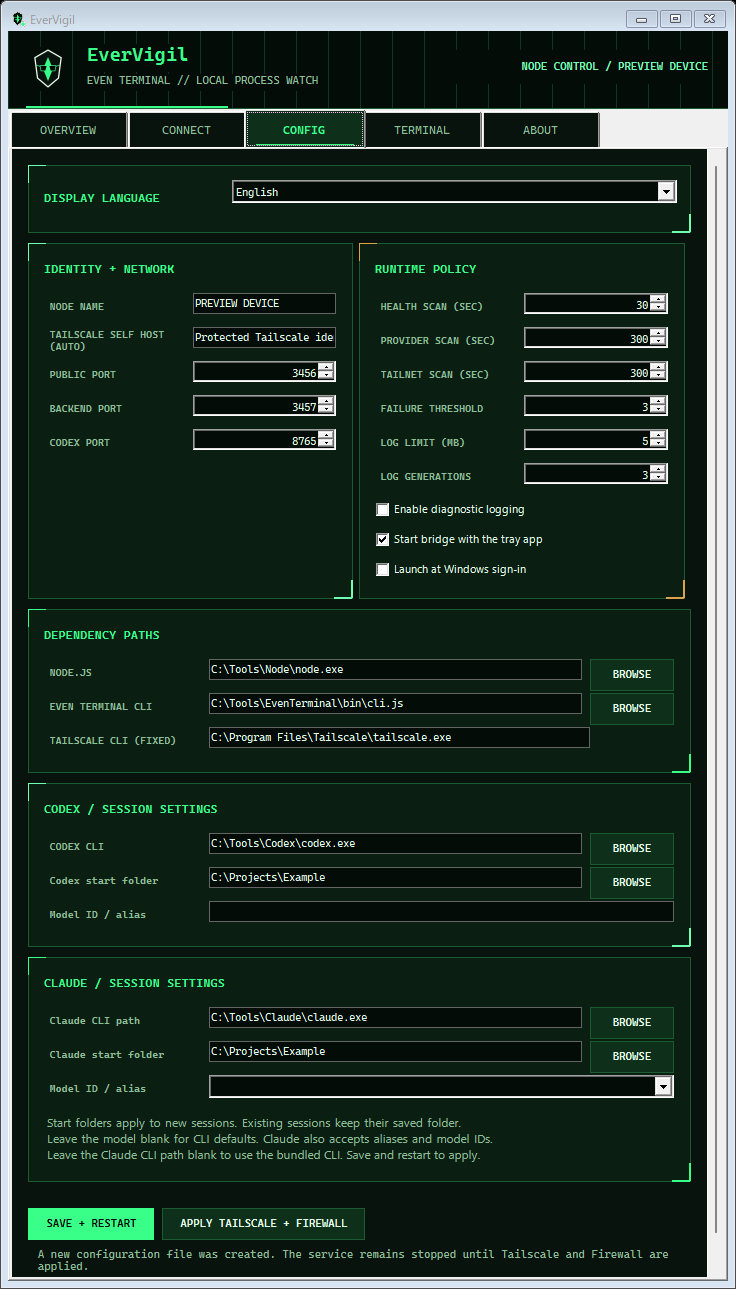
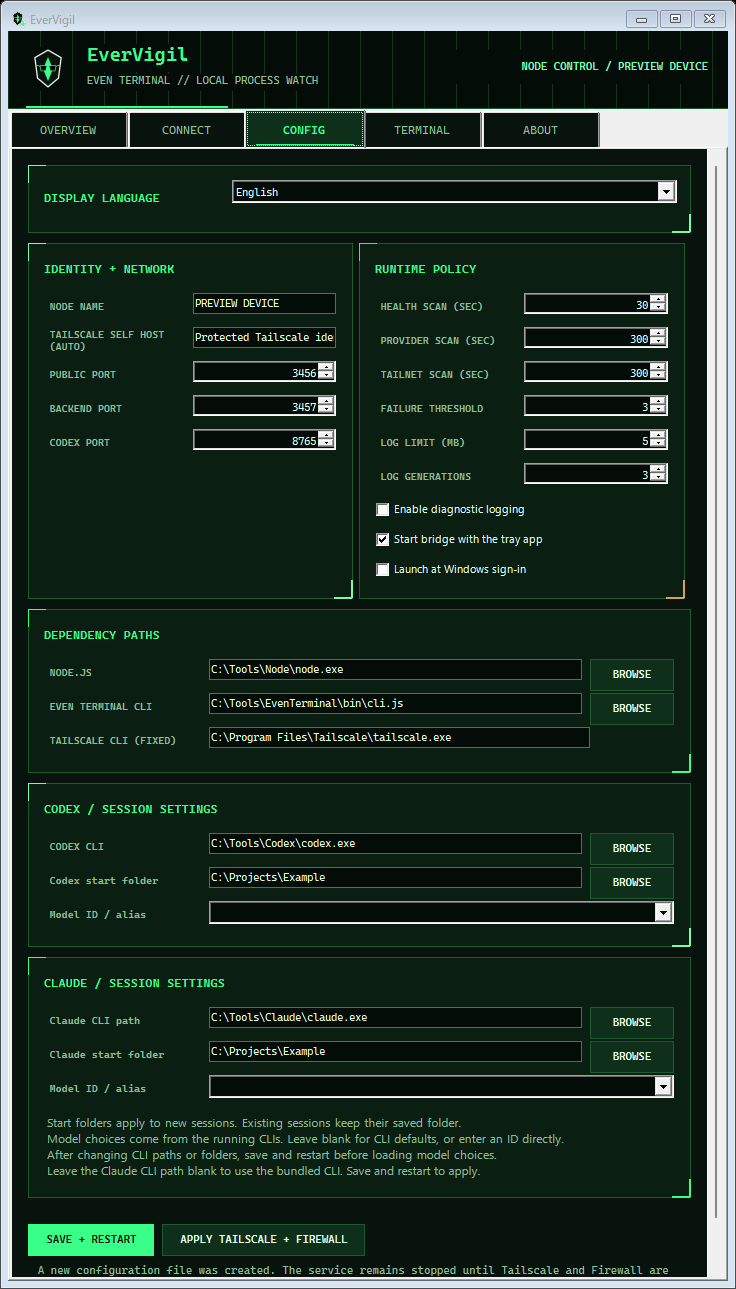
Codex・ClaudeのCLIモデル候補をプルダウンで選択可能にする (#16)
* CLIのモデル候補をCodex・Claudeのプルダウンに表示

* Linuxの依存関係収集でWindows向け復元を許可

---------

Changed region(s): [[0.0312, 0.8689, 0.9062, 0.993], [0.875, 0.6827, 0.9375, 0.7137], [0.9062, 0.8999, 0.9375, 0.931]]

diff --git a/tests/EverVigil.Tests/Program.cs b/tests/EverVigil.Tests/Program.cs
@@ -218,6 +218,55 @@ static void ProviderDefaultsReachSessions()
         const nativeDefaults = { ...core, codexClient: { threadStart: params => params, turnStart: params => params } };
         configureProviders(nativeDefaults, { CodexWorkingDirectory: tmpdir(), ClaudeWorkingDirectory: tmpdir(), CodexModel: '' });
         assert.deepEqual(nativeDefaults.codexClient.turnStart({ threadId: 'saved' }), { threadId: 'saved' });
+        let handler;
+        const callsToCatalog = [];
+        const catalogCore = {
+            default: { get(path, callback) { assert.equal(path, '/models'); handler = callback; } },
+            codexClient: { async call(method, params) {
+                assert.equal(method, 'model/list');
+                assert.equal(params.includeHidden, false);
+                callsToCatalog.push(params.cursor);
+                return params.cursor
+                    ? { data: [{ model: 'second-model' }], nextCursor: null }
+                    : { data: [{ model: 'first-model' }, { model: 'hidden-model', hidden: true }], nextCursor: 'next' };
+            } }
+        };
+        let closed = 0;
+        let fail = false;
+        let stream;
+        const query = ({ prompt, options }) => {
+            stream = prompt;
+            assert.equal(stream.readableLength, 0);
+            assert.equal(options.cwd, tmpdir());
+            assert.equal(options.pathToClaudeCodeExecutable, process.execPath);
+            assert.equal(options.persistSession, false);
+            assert.deepEqual(options.tools, []);
+            assert.equal('BRIDGE_TOKEN' in options.env, false);
+            return {
+                async supportedModels() {
+                    if (fail) throw new Error('private-error-must-not-leak');
+                    return [{ value: 'test-alias' }, { value: 'new-cli-model' }];
+                },
+                close() { closed++; }
+            };
+        };
+        configureModelCatalog(catalogCore, { ClaudeWorkingDirectory: tmpdir(), ClaudePath: process.execPath }, query);
+        async function catalog(provider) {
+            const response = { code: 200, status(code) { this.code = code; return this; }, json(body) { this.body = body; return this; } };
+            await handler({ query: { provider } }, response);
+            return response;
+        }
+        assert.deepEqual((await catalog('codex')).body.models, ['first-model', 'second-model']);
+        assert.deepEqual(callsToCatalog, [undefined, 'next']);
+        assert.deepEqual((await catalog('claude')).body.models, ['test-alias', 'new-cli-model']);
+        assert.equal(closed, 1);
+        assert.equal(stream.writableEnded, true);
+        fail = true;
+        const rejected = await catalog('claude');
+        assert.equal(rejected.code, 503);
+        assert.equal(JSON.stringify(rejected.body).includes('private-error-must-not-leak'), false);
+        assert.equal(closed, 2);
+        assert.equal((await catalog('unknown')).code, 400);
         """);
     using var process = System.Diagnostics.Process.Start(startInfo)!;
     var output = process.StandardOutput.ReadToEndAsync();
@@ -2601,7 +2650,12 @@ static string CreateEvenTerminalFixture(string root, string serverScript)
         const provider = { prompt() {} };
         export const getProvider = () => provider;
         export const codexClient = { threadStart() {}, turnStart() {} };
+        export default { get() {} };
         """);
+    var sdkRoot = Path.Combine(root, "node_modules", "@anthropic-ai", "claude-agent-sdk");
+    Directory.CreateDirectory(sdkRoot);
+    File.WriteAllText(Path.Combine(sdkRoot, "package.json"), "{\"type\":\"module\",\"exports\":\"./sdk.mjs\"}");
+    File.WriteAllText(Path.Combine(sdkRoot, "sdk.mjs"), "export const query = () => { throw new Error('Unexpected inference'); };");
     File.WriteAllText(Path.Combine(root, "dist", "index.js"),
         "import { createRequire } from 'node:module';const require = createRequire(import.meta.url);\n" + serverScript);
     return cliPath;

diff --git a/src/EverVigil/UI/DashboardForm.cs b/src/EverVigil/UI/DashboardForm.cs
@@ -59,8 +59,9 @@ internal sealed class DashboardForm : Form
     private readonly TextBox _claudePathInput = new();
     private readonly TextBox _codexWorkingDirectoryInput = new();
     private readonly TextBox _claudeWorkingDirectoryInput = new();
-    private readonly TextBox _codexModelInput = new();
+    private readonly ComboBox _codexModelInput = new() { DropDownStyle = ComboBoxStyle.DropDown };
     private readonly ComboBox _claudeModelInput = new() { DropDownStyle = ComboBoxStyle.DropDown };
+    private readonly HashSet<ComboBox> _loadingModels = [];
     private readonly TextBox _tailscalePathInput = new();
     private readonly NumericUpDown _healthIntervalInput = NewNumberInput(5, 3600);
     private readonly NumericUpDown _providerIntervalInput = NewNumberInput(15, 3600);
@@ -552,6 +553,7 @@ internal sealed class DashboardForm : Form
         AddPathRow(codex, "FieldCodexPath", _codexPathInput, () => SelectExecutable(_codexPathInput, "codex.exe"));
         AddPathRow(codex, "FieldCodexWorkingDirectory", _codexWorkingDirectoryInput, () => SelectFolder(_codexWorkingDirectoryInput));
         AddSettingsRow(codex, "FieldModel", _codexModelInput);
+        _codexModelInput.DropDown += async (_, _) => await LoadModelsAsync("codex", _codexModelInput);
         codex.SetColumnSpan(_codexModelInput, 2);
         grid.Controls.Add(codexPanel, 0, 3);
         grid.SetColumnSpan(codexPanel, 2);
@@ -559,7 +561,7 @@ internal sealed class DashboardForm : Form
         var claudePanel = BuildSettingsSection("SectionClaude", AppTheme.Neon, out var claude, includeBrowseColumn: true);
         AddPathRow(claude, "FieldClaudePath", _claudePathInput, () => SelectExecutable(_claudePathInput, "claude.exe"));
         AddPathRow(claude, "FieldClaudeWorkingDirectory", _claudeWorkingDirectoryInput, () => SelectFolder(_claudeWorkingDirectoryInput));
-        _claudeModelInput.Items.AddRange([string.Empty, "opus", "sonnet", "haiku"]);
+        _claudeModelInput.DropDown += async (_, _) => await LoadModelsAsync("claude", _claudeModelInput);
         AddSettingsRow(claude, "FieldModel", _claudeModelInput);
         claude.SetColumnSpan(_claudeModelInput, 2);
         var providerHint = new Label
@@ -799,6 +801,45 @@ internal sealed class DashboardForm : Form
         _autoStartServiceInput.Checked = settings.AutoStartService;
         _startOnLoginInput.Checked = _startupRegistration.IsRegistered;
         RefreshTrustedTailnetEndpoint(settings);
+    }
+
+    private async Task LoadModelsAsync(string provider, ComboBox input)
+    {
+        if (!_loadingModels.Add(input))
+        {
+            return;
+        }
+        try
+        {
+            SetSettingsStatus("ModelsLoading");
+            var models = await ProviderModelCatalog.LoadAsync(_settingsStore.Current, _tokenStore.GetOrCreate(), provider);
+            if (IsDisposed || input.IsDisposed)
+            {
+                return;
+            }
+            var selected = input.Text;
+            var wasOpen = input.DroppedDown;
+            input.BeginUpdate();
+            input.Items.Clear();
+            input.Items.Add(string.Empty);
+            input.Items.AddRange(models);
+            input.Text = selected;
+            input.EndUpdate();
+            input.DroppedDown = wasOpen && input.Focused;
+            SetSettingsStatus("ModelsLoaded");
+        }
+        catch (Exception exception)
+        {
+            if (!IsDisposed)
+            {
+                SetSettingsStatus("ModelsUnavailable");
+                _logger.Warn($"{provider} model catalog retrieval failed ({exception.GetType().Name}).");
+            }
+        }
+        finally
+        {
+            _loadingModels.Remove(input);
+        }
     }
 
     private async Task SaveSettingsAsync()

diff --git a/src/EverVigil/Services/ProviderModelCatalog.cs b/src/EverVigil/Services/ProviderModelCatalog.cs
@@ -1,0 +1,36 @@
+using System.Net.Http.Headers;
+using System.Net.Http.Json;
+using EverVigil.Core;
+
+namespace EverVigil.Services;
+
+internal static class ProviderModelCatalog
+{
+    public static async Task<string[]> LoadAsync(AppSettings settings, string token, string provider)
+    {
+        if (settings.BackendPort is < 1024 or > 65535 ||
+            !TokenUtility.IsValid(token) || provider is not ("codex" or "claude"))
+        {
+            throw new ArgumentException("The model catalog request is invalid.");
+        }
+
+        using var client = new HttpClient(new SocketsHttpHandler
+        {
+            UseProxy = false,
+            AllowAutoRedirect = false
+        })
+        { Timeout = TimeSpan.FromSeconds(35) };
+        client.DefaultRequestHeaders.Authorization = new AuthenticationHeaderValue("Bearer", token);
+        var catalog = await client.GetFromJsonAsync<ModelResponse>(
+            $"http://127.0.0.1:{settings.BackendPort}/api/models?provider={provider}");
+        if (catalog?.Models is not { Length: > 0 } models || models.Any(model =>
+                string.IsNullOrEmpty(model) || model.Length > 200 ||
+                model.Any(character => char.IsWhiteSpace(character) || char.IsControl(character))))
+        {
+            throw new InvalidDataException("The model catalog response is invalid.");
+        }
+        return models;
+    }
+
+    private sealed record ModelResponse(string[] Models);
+}

diff --git a/docs/REFERENCE.ja.md b/docs/REFERENCE.ja.md
@@ -57,7 +57,10 @@ EverVigilはCodex認証情報を読取り・保存しません。
 
 次回リリース向けの設定項目は`codexWorkingDirectory`、`claudeWorkingDirectory`、
 `claudePath`、`codexModel`、`claudeModel`です。設定画面から変更し、保存して再起動します。
-モデルは空白・制御文字を含まない200文字以内のIDです。Claudeは`opus`・`sonnet`・`haiku`も選べます。
+モデルは空白・制御文字を含まない200文字以内のIDです。両方のプルダウンで稼働中のCLIから候補を取得します。
+認証済みの`GET /api/models?provider=codex|claude`を使い、Codexの`model/list`は全ページを取得し、
+Claudeの`supportedModels()`は選択されたCLI・開始フォルダで照会します。Claudeへのプロンプト送信・
+セッション保存は行いません。取得できない場合は設定値を維持して失敗を表示します。
 
 対応するEven Terminalは0.10.5です。埋め込み起動スクリプトからインストール済みpackageの
 サーバーを起動し、packageのファイルは変更しません。新規リクエストの明示的な`cwd`を

diff --git a/docs/REFERENCE.en.md b/docs/REFERENCE.en.md
@@ -59,8 +59,11 @@ never release assets.
 The source for the next release adds `codexWorkingDirectory`,
 `claudeWorkingDirectory`, `claudePath`, `codexModel`, and `claudeModel`.
 Edit them in Configuration, then save and restart. Models are IDs up to 200
-characters without whitespace or control characters; Claude also offers the
-`opus`, `sonnet`, and `haiku` aliases.
+characters without whitespace or control characters. Both dropdowns query the
+running CLIs through authenticated `GET /api/models?provider=codex|claude`.
+Codex uses all pages of `model/list`; Claude uses `supportedModels()` with the
+configured executable and folder, without sending a prompt or persisting a
+session. Failed retrieval keeps the current setting and displays an error.
 
 The supported Even Terminal version is 0.10.5. An embedded startup script loads
 the installed package's server without modifying its files. An explicit `cwd`

diff --git a/docs/README.en.md b/docs/README.en.md
@@ -55,8 +55,9 @@ The source for the next release adds independent settings in `Configuration`:
 
 1. Select the CLI executable and default folder for new sessions in each
    provider section. An empty Claude CLI path uses the SDK's bundled CLI.
-2. Enter a Codex model ID, or select a Claude alias (`opus`, `sonnet`, `haiku`)
-   or enter a model ID. Leave the model empty to use the CLI default.
+2. Open either model dropdown while the service is running to load choices
+   from that CLI. After changing CLI paths or folders, save and restart first.
+   Model IDs can also be entered directly. Leave empty to use the CLI default.
    Availability depends on the account and CLI.
 3. Select `Save + restart`, then create a new session from Even.
 

diff --git a/README.md b/README.md
@@ -65,8 +65,10 @@ The owned Firewall rule remains required to block direct backend access;
 the backend is not bound exclusively to loopback.
 
 In `Configuration`, set each provider's default folder and model, then choose
-`Save + restart`. An empty model uses the CLI default. Claude accepts the
-`opus`, `sonnet`, and `haiku` aliases or a model ID; Codex accepts a model ID.
+`Save + restart`. Both model dropdowns load the CLI's available choices when
+opened while the service is running. After changing CLI paths or folders,
+save and restart before loading choices. An empty model uses the CLI default;
+model IDs can also be entered directly.
 These settings are part of the source changes for the next release.
 
 ## Install and update
